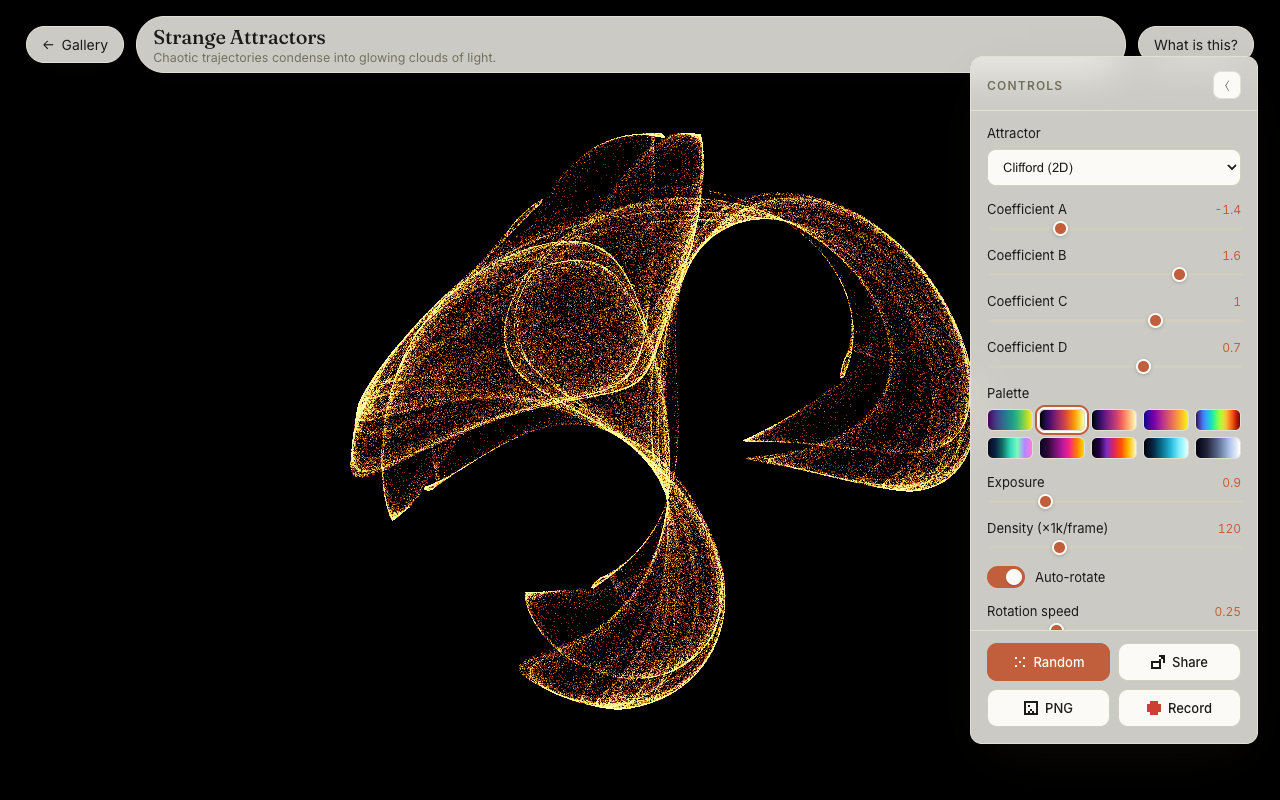
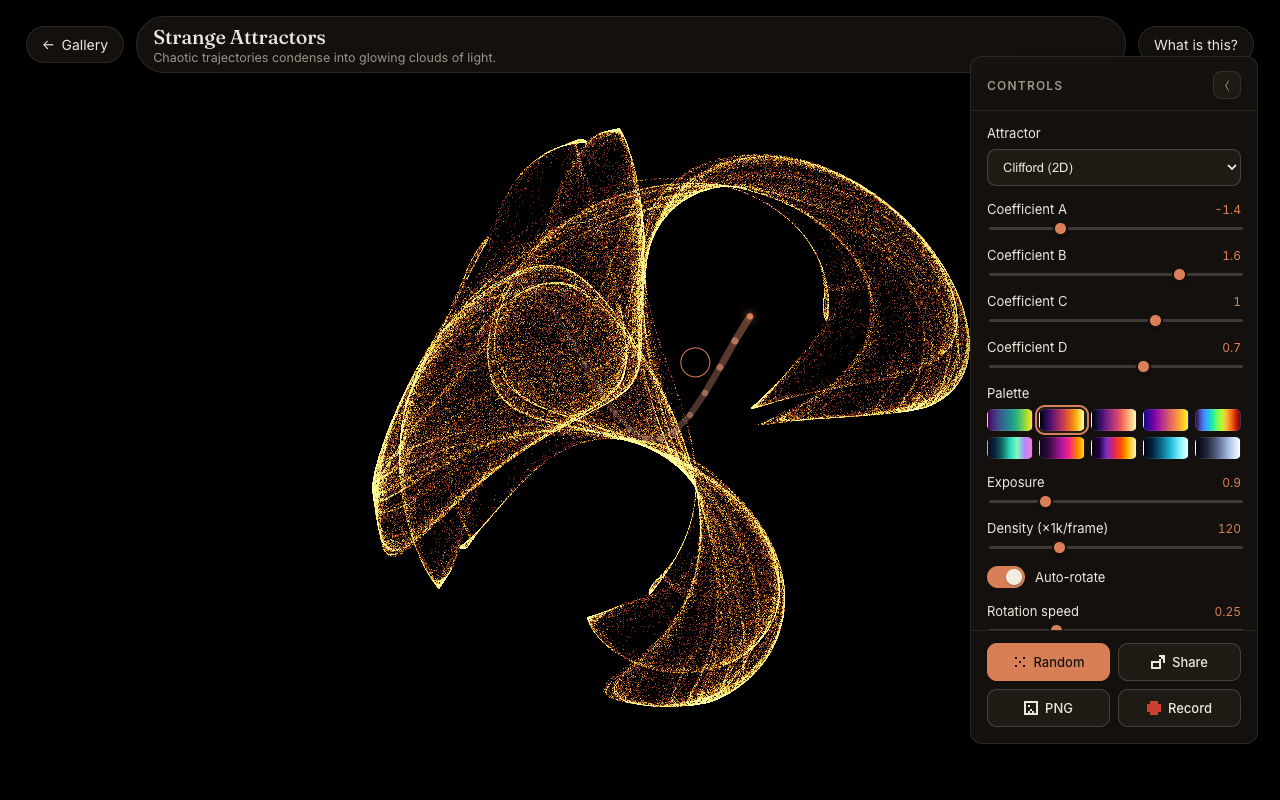
Dark theme, custom cursor with glowing trail, original mascot
- Switch the whole site to a warm minimal *dark* palette (kept the serif/
  pixel/editorial structure; just inverted the values + shadows).
- Add a custom cursor: precise dot, eased follower ring (grows on hover /
  shrinks on click) and a glowing clay->blue comet trail. Fine-pointer
  devices only, respects prefers-reduced-motion.
- Redraw the mascot as an original pixel cat (ears + nose) so it no longer
  resembles the Claude pixel character.

diff --git a/src/shared/cursor.ts b/src/shared/cursor.ts
@@ -1,0 +1,115 @@
+// Custom cursor: a precise dot, an eased follower ring, and a glowing comet
+// trail. Fine-pointer devices only (skipped on touch and for users who prefer
+// reduced motion).
+
+interface TrailPoint {
+  x: number;
+  y: number;
+  life: number;
+}
+
+const CLAY: [number, number, number] = [217, 127, 87];
+const BLUE: [number, number, number] = [122, 155, 208];
+
+export function initCursor(): void {
+  if (!window.matchMedia('(pointer: fine)').matches) return;
+  if (window.matchMedia('(prefers-reduced-motion: reduce)').matches) return;
+
+  document.documentElement.classList.add('custom-cursor');
+
+  const canvas = document.createElement('canvas');
+  canvas.className = 'cursor-trail';
+  const ctx = canvas.getContext('2d')!;
+  const ring = div('cursor-ring');
+  const dot = div('cursor-dot');
+  document.body.append(canvas, ring, dot);
+
+  let dpr = Math.min(window.devicePixelRatio || 1, 2);
+  const resize = () => {
+    dpr = Math.min(window.devicePixelRatio || 1, 2);
+    canvas.width = Math.round(window.innerWidth * dpr);
+    canvas.height = Math.round(window.innerHeight * dpr);
+    ctx.setTransform(dpr, 0, 0, dpr, 0, 0);
+  };
+  resize();
+  window.addEventListener('resize', resize);
+
+  let mx = window.innerWidth / 2;
+  let my = window.innerHeight / 2;
+  let rx = mx;
+  let ry = my;
+  let shown = false;
+  const pts: TrailPoint[] = [];
+
+  window.addEventListener(
+    'pointermove',
+    (e) => {
+      if (e.pointerType === 'touch') return;
+      mx = e.clientX;
+      my = e.clientY;
+      dot.style.transform = `translate(${mx}px, ${my}px)`;
+      pts.push({ x: mx, y: my, life: 1 });
+      if (pts.length > 90) pts.shift();
+      if (!shown) {
+        shown = true;
+        document.body.classList.add('cursor-on');
+      }
+    },
+    { passive: true },
+  );
+
+  window.addEventListener('pointerdown', () => ring.classList.add('down'));
+  window.addEventListener('pointerup', () => ring.classList.remove('down'));
+  window.addEventListener(
+    'pointerover',
+    (e) => {
+      const t = e.target as HTMLElement | null;
+      const interactive = !!t?.closest?.('a, button, input, select, textarea, label, .swatch, .card');
+      ring.classList.toggle('hover', interactive);
+    },
+    { passive: true },
+  );
+  document.addEventListener('mouseleave', () => {
+    document.body.classList.remove('cursor-on');
+    shown = false;
+  });
+  document.addEventListener('mouseenter', () => {
+    document.body.classList.add('cursor-on');
+    shown = true;
+  });
+
+  const frame = () => {
+    rx += (mx - rx) * 0.18;
+    ry += (my - ry) * 0.18;
+    ring.style.transform = `translate(${rx}px, ${ry}px)`;
+
+    ctx.clearRect(0, 0, window.innerWidth, window.innerHeight);
+    ctx.globalCompositeOperation = 'lighter';
+    ctx.lineCap = 'round';
+    for (const p of pts) p.life -= 0.045;
+    while (pts.length && pts[0].life <= 0) pts.shift();
+    for (let i = 1; i < pts.length; i++) {
+      const p0 = pts[i - 1];
+      const p1 = pts[i];
+      const a = Math.max(0, p1.life);
+      const t = 1 - a;
+      const r = Math.round(CLAY[0] + (BLUE[0] - CLAY[0]) * t);
+      const g = Math.round(CLAY[1] + (BLUE[1] - CLAY[1]) * t);
+      const b = Math.round(CLAY[2] + (BLUE[2] - CLAY[2]) * t);
+      ctx.strokeStyle = `rgba(${r}, ${g}, ${b}, ${a * 0.5})`;
+      ctx.lineWidth = 1 + a * 7;
+      ctx.beginPath();
+      ctx.moveTo(p0.x, p0.y);
+      ctx.lineTo(p1.x, p1.y);
+      ctx.stroke();
+    }
+    requestAnimationFrame(frame);
+  };
+  requestAnimationFrame(frame);
+}
+
+function div(cls: string): HTMLDivElement {
+  const d = document.createElement('div');
+  d.className = cls;
+  return d;
+}

diff --git a/src/style.css b/src/style.css
@@ -1,18 +1,18 @@
 :root {
-  /* warm, minimal — Anthropic/Mistral inspired */
-  --bg: #f3f1ea;
-  --bg-2: #eeece3;
-  --surface: #fbfaf6;
-  --surface-2: #f6f4ee;
-  --text: #1c1b18;
-  --text-muted: #74705f;
-  --line: #e2dfd4;
-  --line-strong: #d2cdbd;
-  --accent: #c15f3c; /* clay / terracotta */
-  --accent-ink: #fbfaf6;
-  --blue: #4a6fa5;
-  --frost: rgba(248, 246, 240, 0.82);
-  --art: #14130f; /* dark mat behind the artwork */
+  /* warm, minimal, dark — Anthropic/Mistral inspired */
+  --bg: #14120d;
+  --bg-2: #1d1913;
+  --surface: #1e1a14;
+  --surface-2: #26211a;
+  --text: #ece7dc;
+  --text-muted: #9c9486;
+  --line: rgba(236, 231, 220, 0.1);
+  --line-strong: rgba(236, 231, 220, 0.2);
+  --accent: #d97f57; /* clay / terracotta, brightened for dark */
+  --accent-ink: #1a160f;
+  --blue: #7a9bd0;
+  --frost: rgba(26, 22, 17, 0.74);
+  --art: #100f0c; /* dark mat behind the artwork */
   --radius: 12px;
   --serif: 'Fraunces', 'Iowan Old Style', 'Palatino Linotype', Georgia, serif;
   --sans: 'Inter', system-ui, -apple-system, 'Segoe UI', Roboto, Helvetica, Arial, sans-serif;
@@ -159,7 +159,7 @@ button {
 .card:hover {
   transform: translateY(-3px);
   border-color: var(--line-strong);
-  box-shadow: 0 16px 40px -22px rgba(40, 33, 22, 0.45);
+  box-shadow: 0 18px 44px -22px rgba(0, 0, 0, 0.7);
   text-decoration: none;
 }
 
@@ -294,7 +294,7 @@ button {
   -webkit-backdrop-filter: blur(14px);
   color: var(--text);
   border-radius: 999px;
-  box-shadow: 0 6px 20px -12px rgba(30, 25, 15, 0.5);
+  box-shadow: 0 8px 24px -12px rgba(0, 0, 0, 0.65);
 }
 
 .viz-back {
@@ -357,7 +357,7 @@ button {
   background: var(--frost);
   border: 1px solid var(--line);
   border-radius: var(--radius);
-  box-shadow: 0 20px 50px -24px rgba(35, 28, 16, 0.55);
+  box-shadow: 0 24px 60px -24px rgba(0, 0, 0, 0.75);
   backdrop-filter: blur(18px);
   -webkit-backdrop-filter: blur(18px);
   transition: transform 0.3s cubic-bezier(0.2, 0.8, 0.2, 1), opacity 0.3s;
@@ -442,16 +442,16 @@ input[type='range']::-webkit-slider-thumb {
   height: 15px;
   border-radius: 50%;
   background: var(--accent);
-  border: 2px solid var(--surface);
+  border: 2px solid var(--bg);
   cursor: pointer;
-  box-shadow: 0 1px 4px rgba(0, 0, 0, 0.25);
+  box-shadow: 0 1px 4px rgba(0, 0, 0, 0.5);
 }
 input[type='range']::-moz-range-thumb {
   width: 13px;
   height: 13px;
   border-radius: 50%;
   background: var(--accent);
-  border: 2px solid var(--surface);
+  border: 2px solid var(--bg);
   cursor: pointer;
 }
 
@@ -502,9 +502,9 @@ select:focus {
   width: 16px;
   height: 16px;
   border-radius: 50%;
-  background: var(--surface);
+  background: #f1ece2;
   transition: transform 0.2s;
-  box-shadow: 0 1px 2px rgba(0, 0, 0, 0.25);
+  box-shadow: 0 1px 2px rgba(0, 0, 0, 0.4);
 }
 .control-toggle input:checked + .toggle-track {
   background: var(--accent);
@@ -573,8 +573,8 @@ select:focus {
   color: var(--accent-ink);
 }
 .btn-accent:hover {
-  background: #ad5234;
-  border-color: #ad5234;
+  background: #e88c63;
+  border-color: #e88c63;
 }
 .btn.recording {
   background: #cc4033;
@@ -617,7 +617,7 @@ select:focus {
   align-items: center;
   justify-content: center;
   padding: 20px;
-  background: rgba(28, 24, 16, 0.32);
+  background: rgba(0, 0, 0, 0.55);
   backdrop-filter: blur(5px);
 }
 .about-overlay.open {
@@ -631,7 +631,7 @@ select:focus {
   border: 1px solid var(--line);
   border-radius: var(--radius);
   padding: 30px 34px 26px;
-  box-shadow: 0 30px 60px -30px rgba(35, 28, 16, 0.6);
+  box-shadow: 0 30px 70px -30px rgba(0, 0, 0, 0.8);
 }
 .about-card h2 {
   margin: 0 0 18px;
@@ -684,6 +684,66 @@ select:focus {
     transform: translateY(110vh) rotate(220deg);
     opacity: 0.2;
   }
+}
+
+/* ============================ CUSTOM CURSOR ============================ */
+html.custom-cursor,
+html.custom-cursor * {
+  cursor: none !important;
+}
+.cursor-trail {
+  position: fixed;
+  inset: 0;
+  width: 100vw;
+  height: 100vh;
+  pointer-events: none;
+  z-index: 9998;
+}
+.cursor-ring {
+  position: fixed;
+  top: 0;
+  left: 0;
+  width: 30px;
+  height: 30px;
+  margin: -15px 0 0 -15px;
+  border: 1.5px solid var(--accent);
+  border-radius: 50%;
+  pointer-events: none;
+  z-index: 9999;
+  opacity: 0;
+  transition: opacity 0.25s ease, width 0.18s ease, height 0.18s ease,
+    margin 0.18s ease, background 0.18s ease, border-color 0.18s ease;
+}
+.cursor-dot {
+  position: fixed;
+  top: 0;
+  left: 0;
+  width: 6px;
+  height: 6px;
+  margin: -3px 0 0 -3px;
+  background: var(--accent);
+  border-radius: 50%;
+  pointer-events: none;
+  z-index: 10000;
+  opacity: 0;
+  transition: opacity 0.25s ease;
+  box-shadow: 0 0 8px var(--accent), 0 0 16px rgba(217, 127, 87, 0.5);
+}
+body.cursor-on .cursor-ring,
+body.cursor-on .cursor-dot {
+  opacity: 1;
+}
+.cursor-ring.hover {
+  width: 46px;
+  height: 46px;
+  margin: -23px 0 0 -23px;
+  background: rgba(217, 127, 87, 0.1);
+}
+.cursor-ring.down {
+  width: 20px;
+  height: 20px;
+  margin: -10px 0 0 -10px;
+  background: rgba(217, 127, 87, 0.18);
 }
 
 /* ============================ MISC ============================ */

diff --git a/src/shared/pixel.ts b/src/shared/pixel.ts
@@ -43,19 +43,20 @@ export const ICON_REC = pixelArt(
 export const SPARKLE = (color = '#c15f3c', px = 3) =>
   pixelArt(['..#..', '.###.', '#####', '.###.', '..#..'], { '#': color }, px);
 
-// --- the mascot: an original pixel critter (the easter egg) ---
+// --- the mascot: an original pixel cat (the easter egg) ---
 const MASCOT_ROWS = [
-  '...cccccc...',
+  '..c......c..',
+  '..cc....cc..',
   '..cccccccc..',
   '.cccccccccc.',
-  '.cwwccccwwc.',
-  '.ckkcccckkc.',
+  '.cwkcccckwc.',
   '.cccccccccc.',
+  '.ccccwwcccc.',
   '.cccccccccc.',
   '..cccccccc..',
   '..cc.cc.cc..',
 ];
-const MASCOT_MAP: ColorMap = { c: '#c15f3c', w: '#faf9f5', k: '#2a2722' };
+const MASCOT_MAP: ColorMap = { c: '#c15f3c', w: '#f3efe6', k: '#2a2722' };
 
 export function mascotSvg(px = 4): string {
   return pixelArt(MASCOT_ROWS, MASCOT_MAP, px);

diff --git a/index.html b/index.html
@@ -3,7 +3,7 @@
   <head>
     <meta charset="UTF-8" />
     <meta name="viewport" content="width=device-width, initial-scale=1.0, viewport-fit=cover" />
-    <meta name="theme-color" content="#f3f1ea" />
+    <meta name="theme-color" content="#14120d" />
     <meta name="description" content="An open gallery of interactive, shareable mathematical visualizations — strange attractors, reaction-diffusion, Newton fractals and more." />
     <title>MathVisualize — interactive math art</title>
     <!-- pixel-diamond favicon (crisp edges) -->

diff --git a/src/main.ts b/src/main.ts
@@ -4,9 +4,11 @@ import { mountViz, type EngineController } from './shared/engine';
 import { renderGallery } from './gallery';
 import { findViz } from './viz/registry';
 import { onKonami, rainSparkles } from './shared/pixel';
+import { initCursor } from './shared/cursor';
 
 const app = document.getElementById('app')!;
 
+initCursor();
 onKonami(() => rainSparkles(40));
 
 let current: EngineController | null = null;